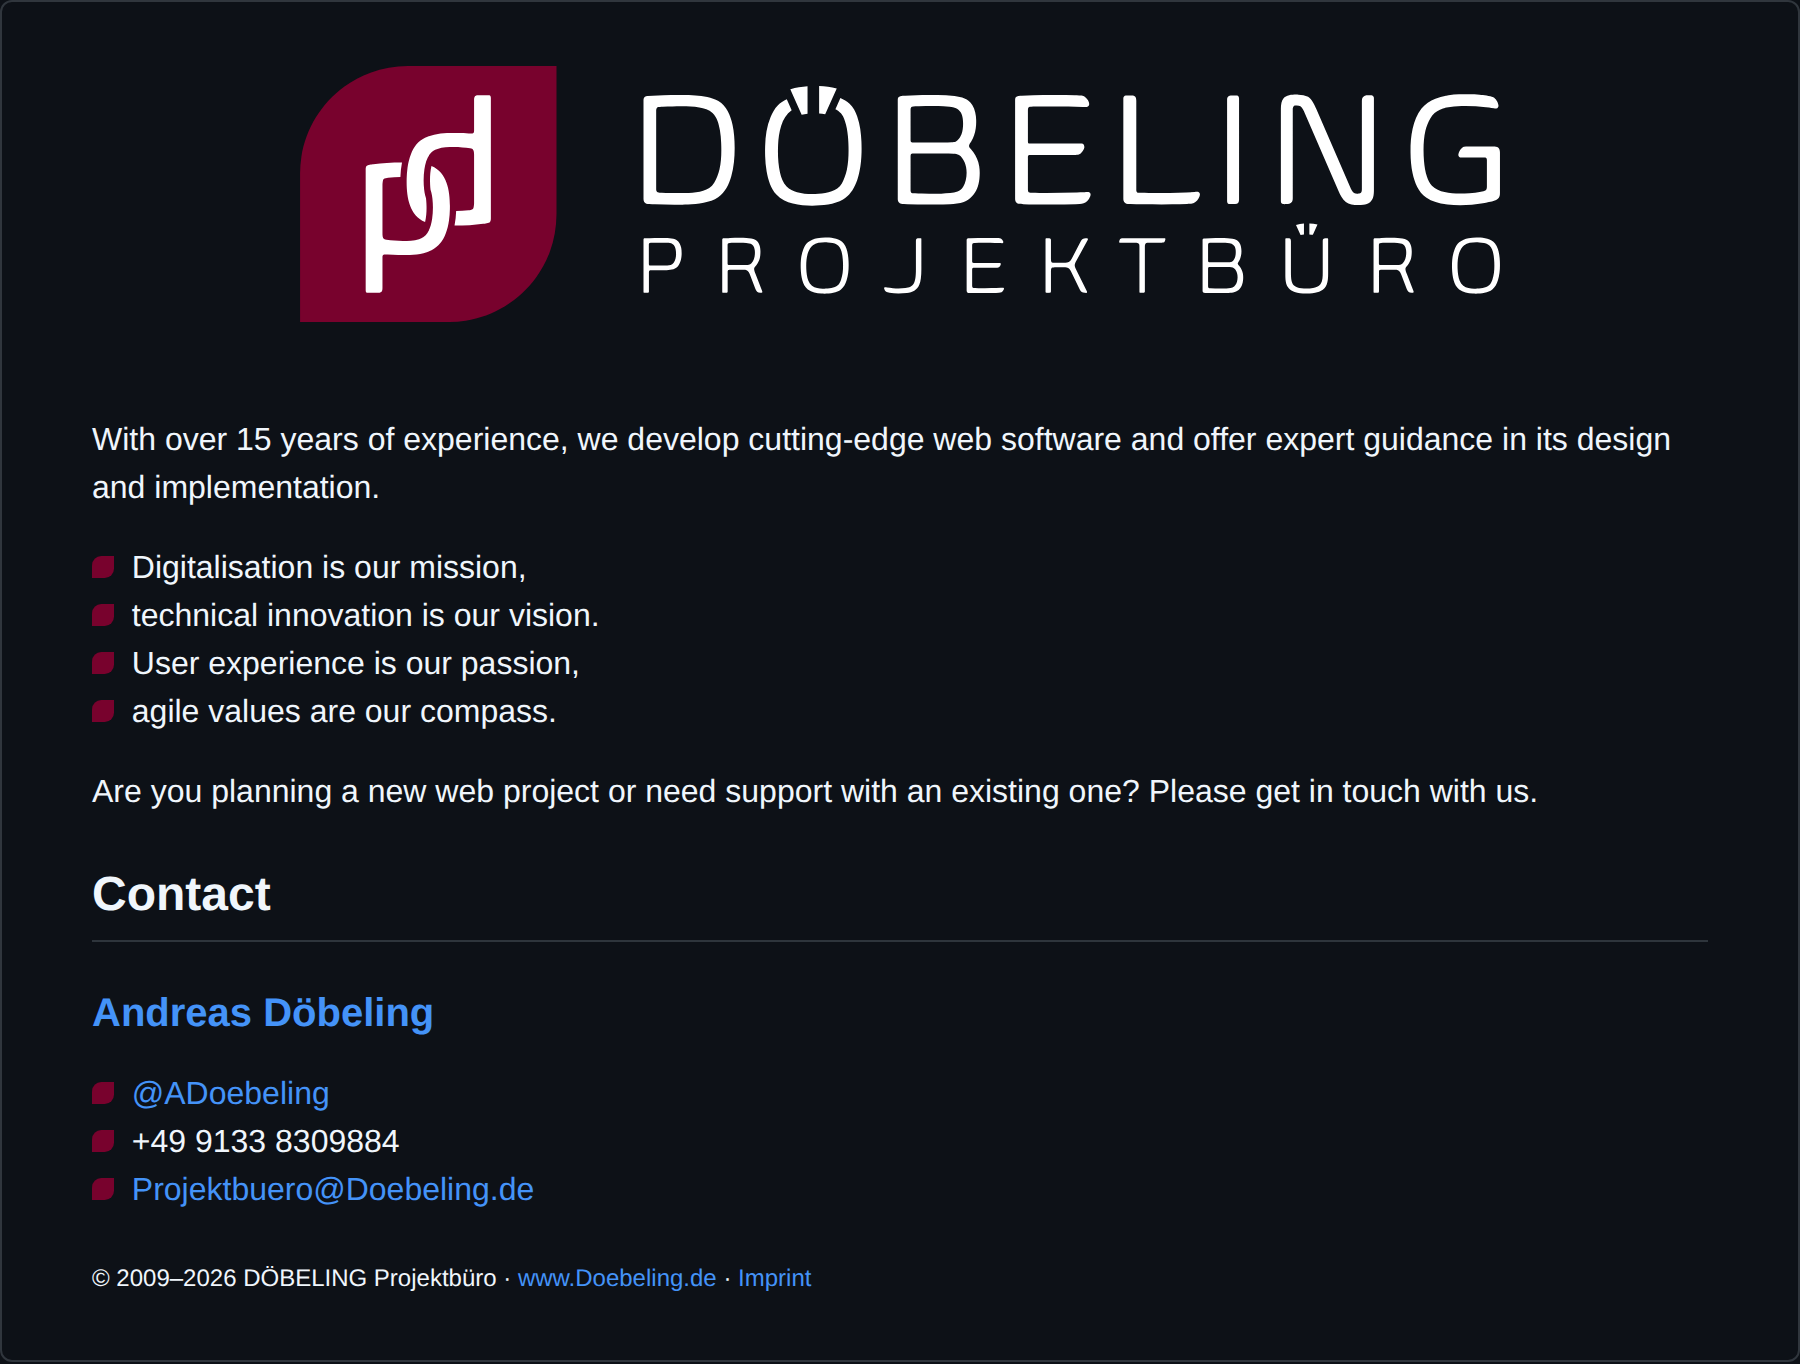
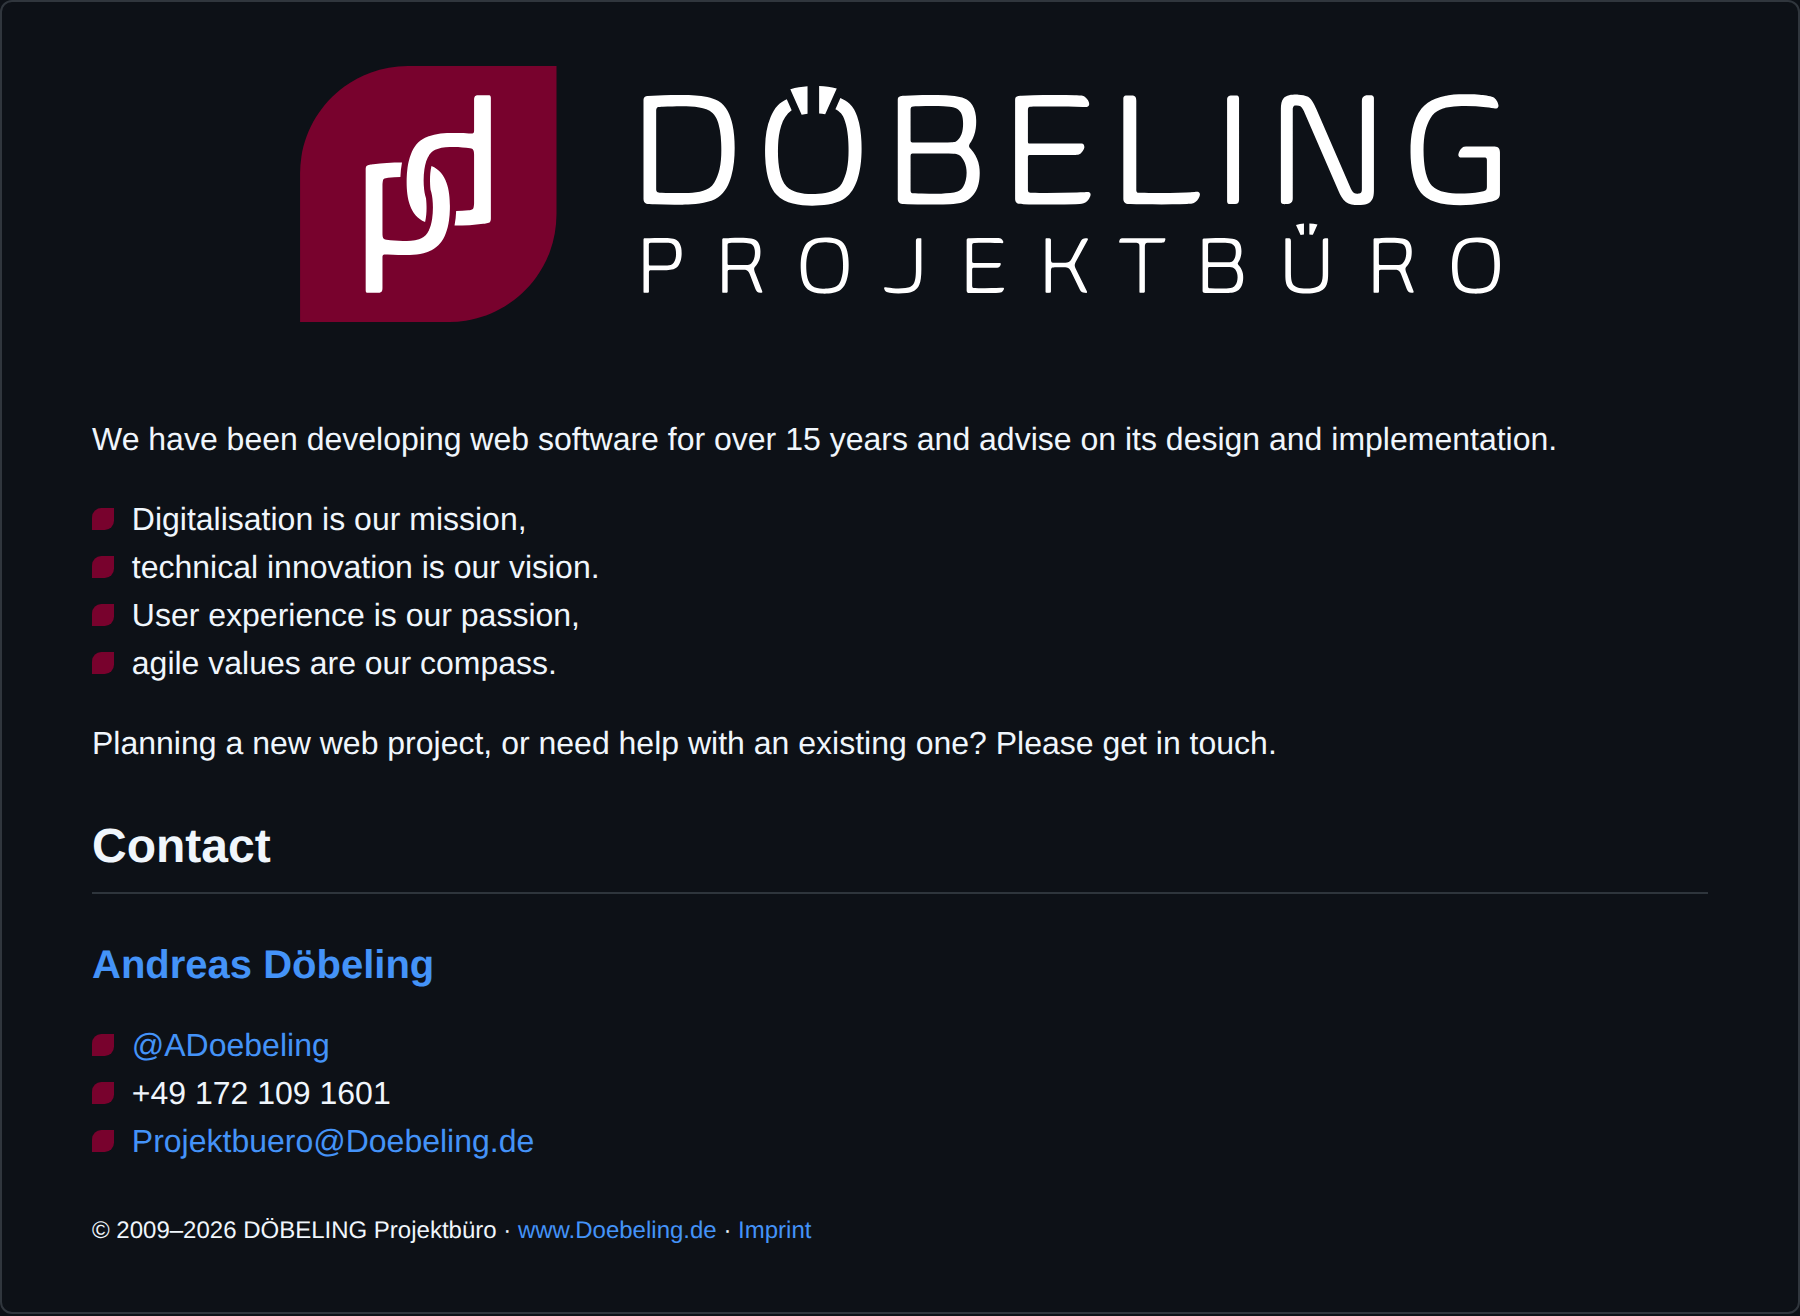
Profile README: plainer English, mobile number instead of landline

diff --git a/profile/README.md b/profile/README.md
@@ -9,21 +9,21 @@
 
 <br>
 
-With over 15 years of experience, we develop cutting-edge web software and offer expert guidance in its design and implementation.
+We have been developing web software for over 15 years and advise on its design and implementation.
 
 <img src="https://raw.githubusercontent.com/DOEBELING/.github/main/assets/kachel-portwein.svg" width="11" alt="">&nbsp;&nbsp;Digitalisation is our mission,<br>
 <img src="https://raw.githubusercontent.com/DOEBELING/.github/main/assets/kachel-portwein.svg" width="11" alt="">&nbsp;&nbsp;technical innovation is our vision.<br>
 <img src="https://raw.githubusercontent.com/DOEBELING/.github/main/assets/kachel-portwein.svg" width="11" alt="">&nbsp;&nbsp;User experience is our passion,<br>
 <img src="https://raw.githubusercontent.com/DOEBELING/.github/main/assets/kachel-portwein.svg" width="11" alt="">&nbsp;&nbsp;agile values are our compass.
 
-Are you planning a new web project or need support with an existing one? Please get in touch with us.
+Planning a new web project, or need help with an existing one? Please get in touch.
 
 ## Contact
 
 ### [Andreas Döbeling](https://github.com/ADoebeling)
 
 <img src="https://raw.githubusercontent.com/DOEBELING/.github/main/assets/kachel-portwein.svg" width="11" alt="">&nbsp;&nbsp;[@ADoebeling](https://github.com/ADoebeling)<br>
-<img src="https://raw.githubusercontent.com/DOEBELING/.github/main/assets/kachel-portwein.svg" width="11" alt="">&nbsp;&nbsp;+49 9133 8309884<br>
+<img src="https://raw.githubusercontent.com/DOEBELING/.github/main/assets/kachel-portwein.svg" width="11" alt="">&nbsp;&nbsp;+49 172 109 1601<br>
 <img src="https://raw.githubusercontent.com/DOEBELING/.github/main/assets/kachel-portwein.svg" width="11" alt="">&nbsp;&nbsp;[Projektbuero@Doebeling.de](mailto:Projektbuero@Doebeling.de?subject=%5Bgithub.com%2FDOEBELING%5D%20Project%20enquiry)
 
 <sub>© 2009–2026 DÖBELING Projektbüro · <a href="https://www.Doebeling.de">www.Doebeling.de</a> · <a href="https://legal.doebeling.de/impressum/">Imprint</a></sub>
